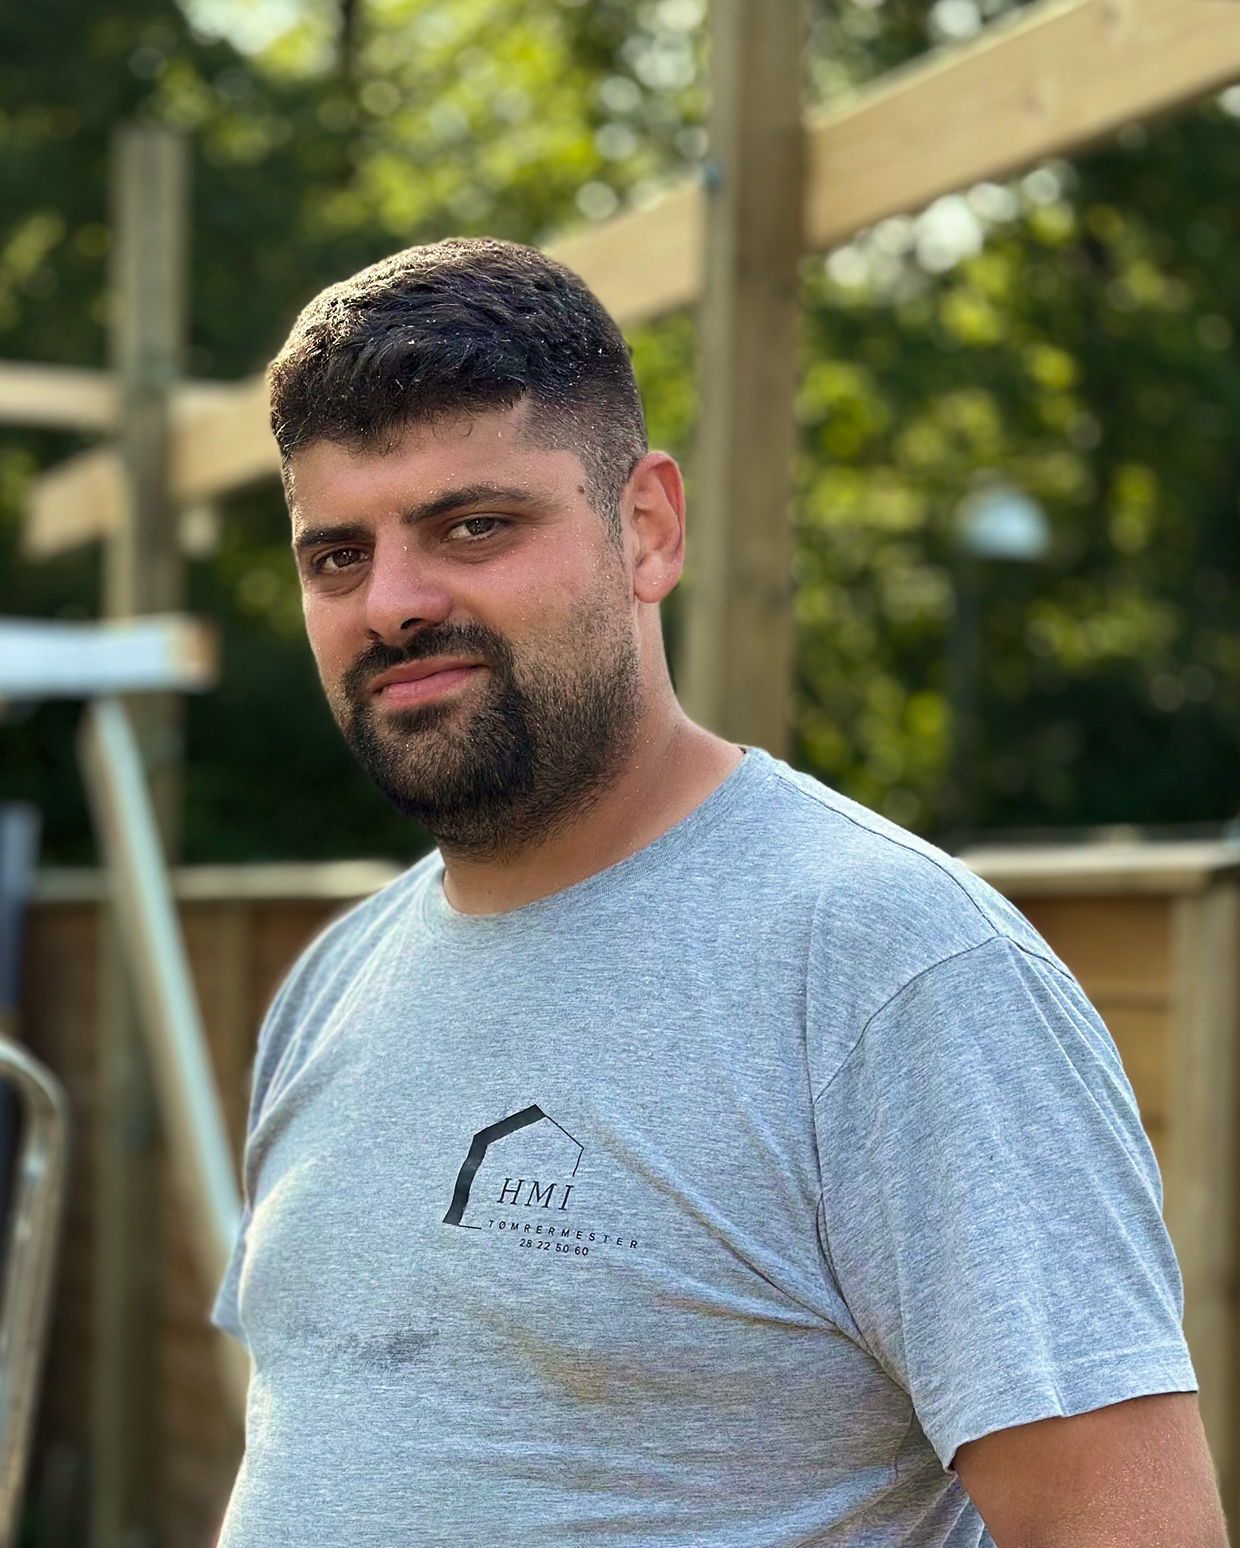
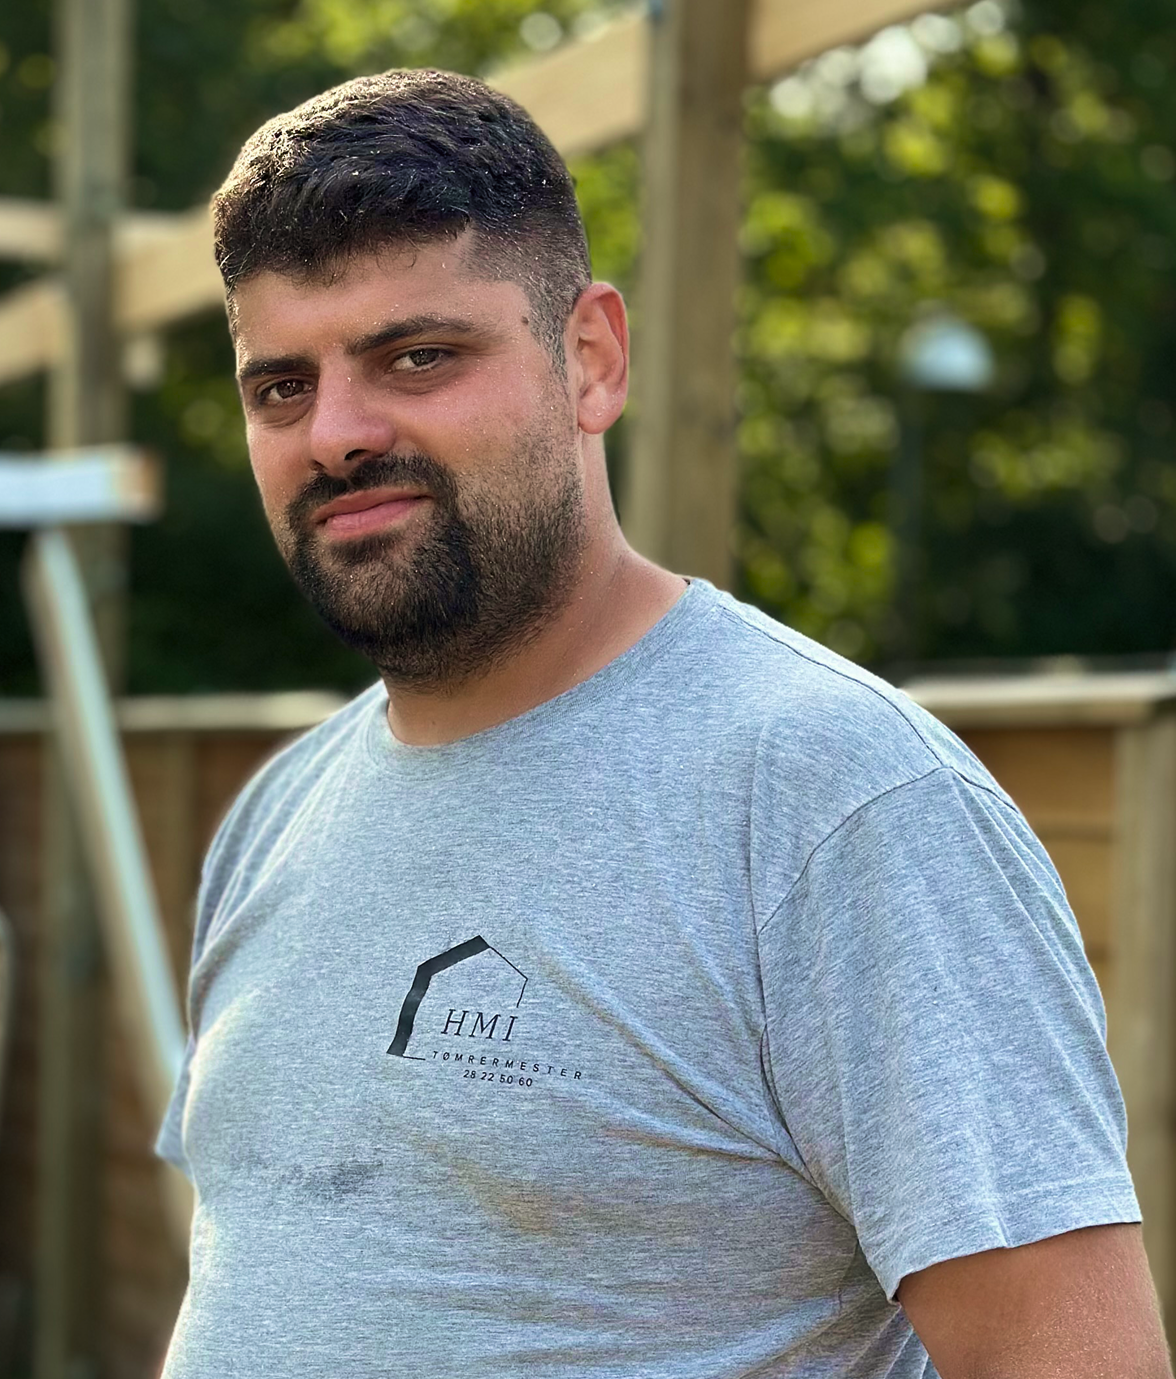
change the opasity to images

diff --git a/src/app/ydelser/YdelseLayout.js b/src/app/ydelser/YdelseLayout.js
@@ -173,7 +173,7 @@ export default function YdelseLayout({
                   )}
                   
                   {/* Opacity overlay */}
-                  <div className="absolute inset-0 bg-darkblue bg-opacity-40 z-10"></div>
+                  <div className="absolute inset-0 bg-darkblue bg-opacity-20 z-10"></div>
                   
                   {/* Decorative overlay - now using group-hover and positioned to not interfere */}                  
                   <div className="absolute inset-0 bg-gradient-to-tr from-accent/10 via-transparent to-transparent opacity-0 group-hover:opacity-100 transition-opacity duration-300 pointer-events-none z-20"></div>

diff --git a/src/app/om-os/page.js b/src/app/om-os/page.js
@@ -94,7 +94,7 @@ const OmOs = () => {
             className="object-cover rounded-xl shadow-xl"
             sizes="(max-width: 1024px) 100vw, 50vw"
           />
-          <div className="absolute inset-0 rounded-xl  bg-darkblue bg-opacity-40 z-10 group-hover:bg-opacity-30 transition-all duration-300"></div>
+          <div className="absolute inset-0 rounded-xl  bg-darkblue bg-opacity-20 z-10 group-hover:bg-opacity-30 transition-all duration-300"></div>
         </div>
       </section>
 
